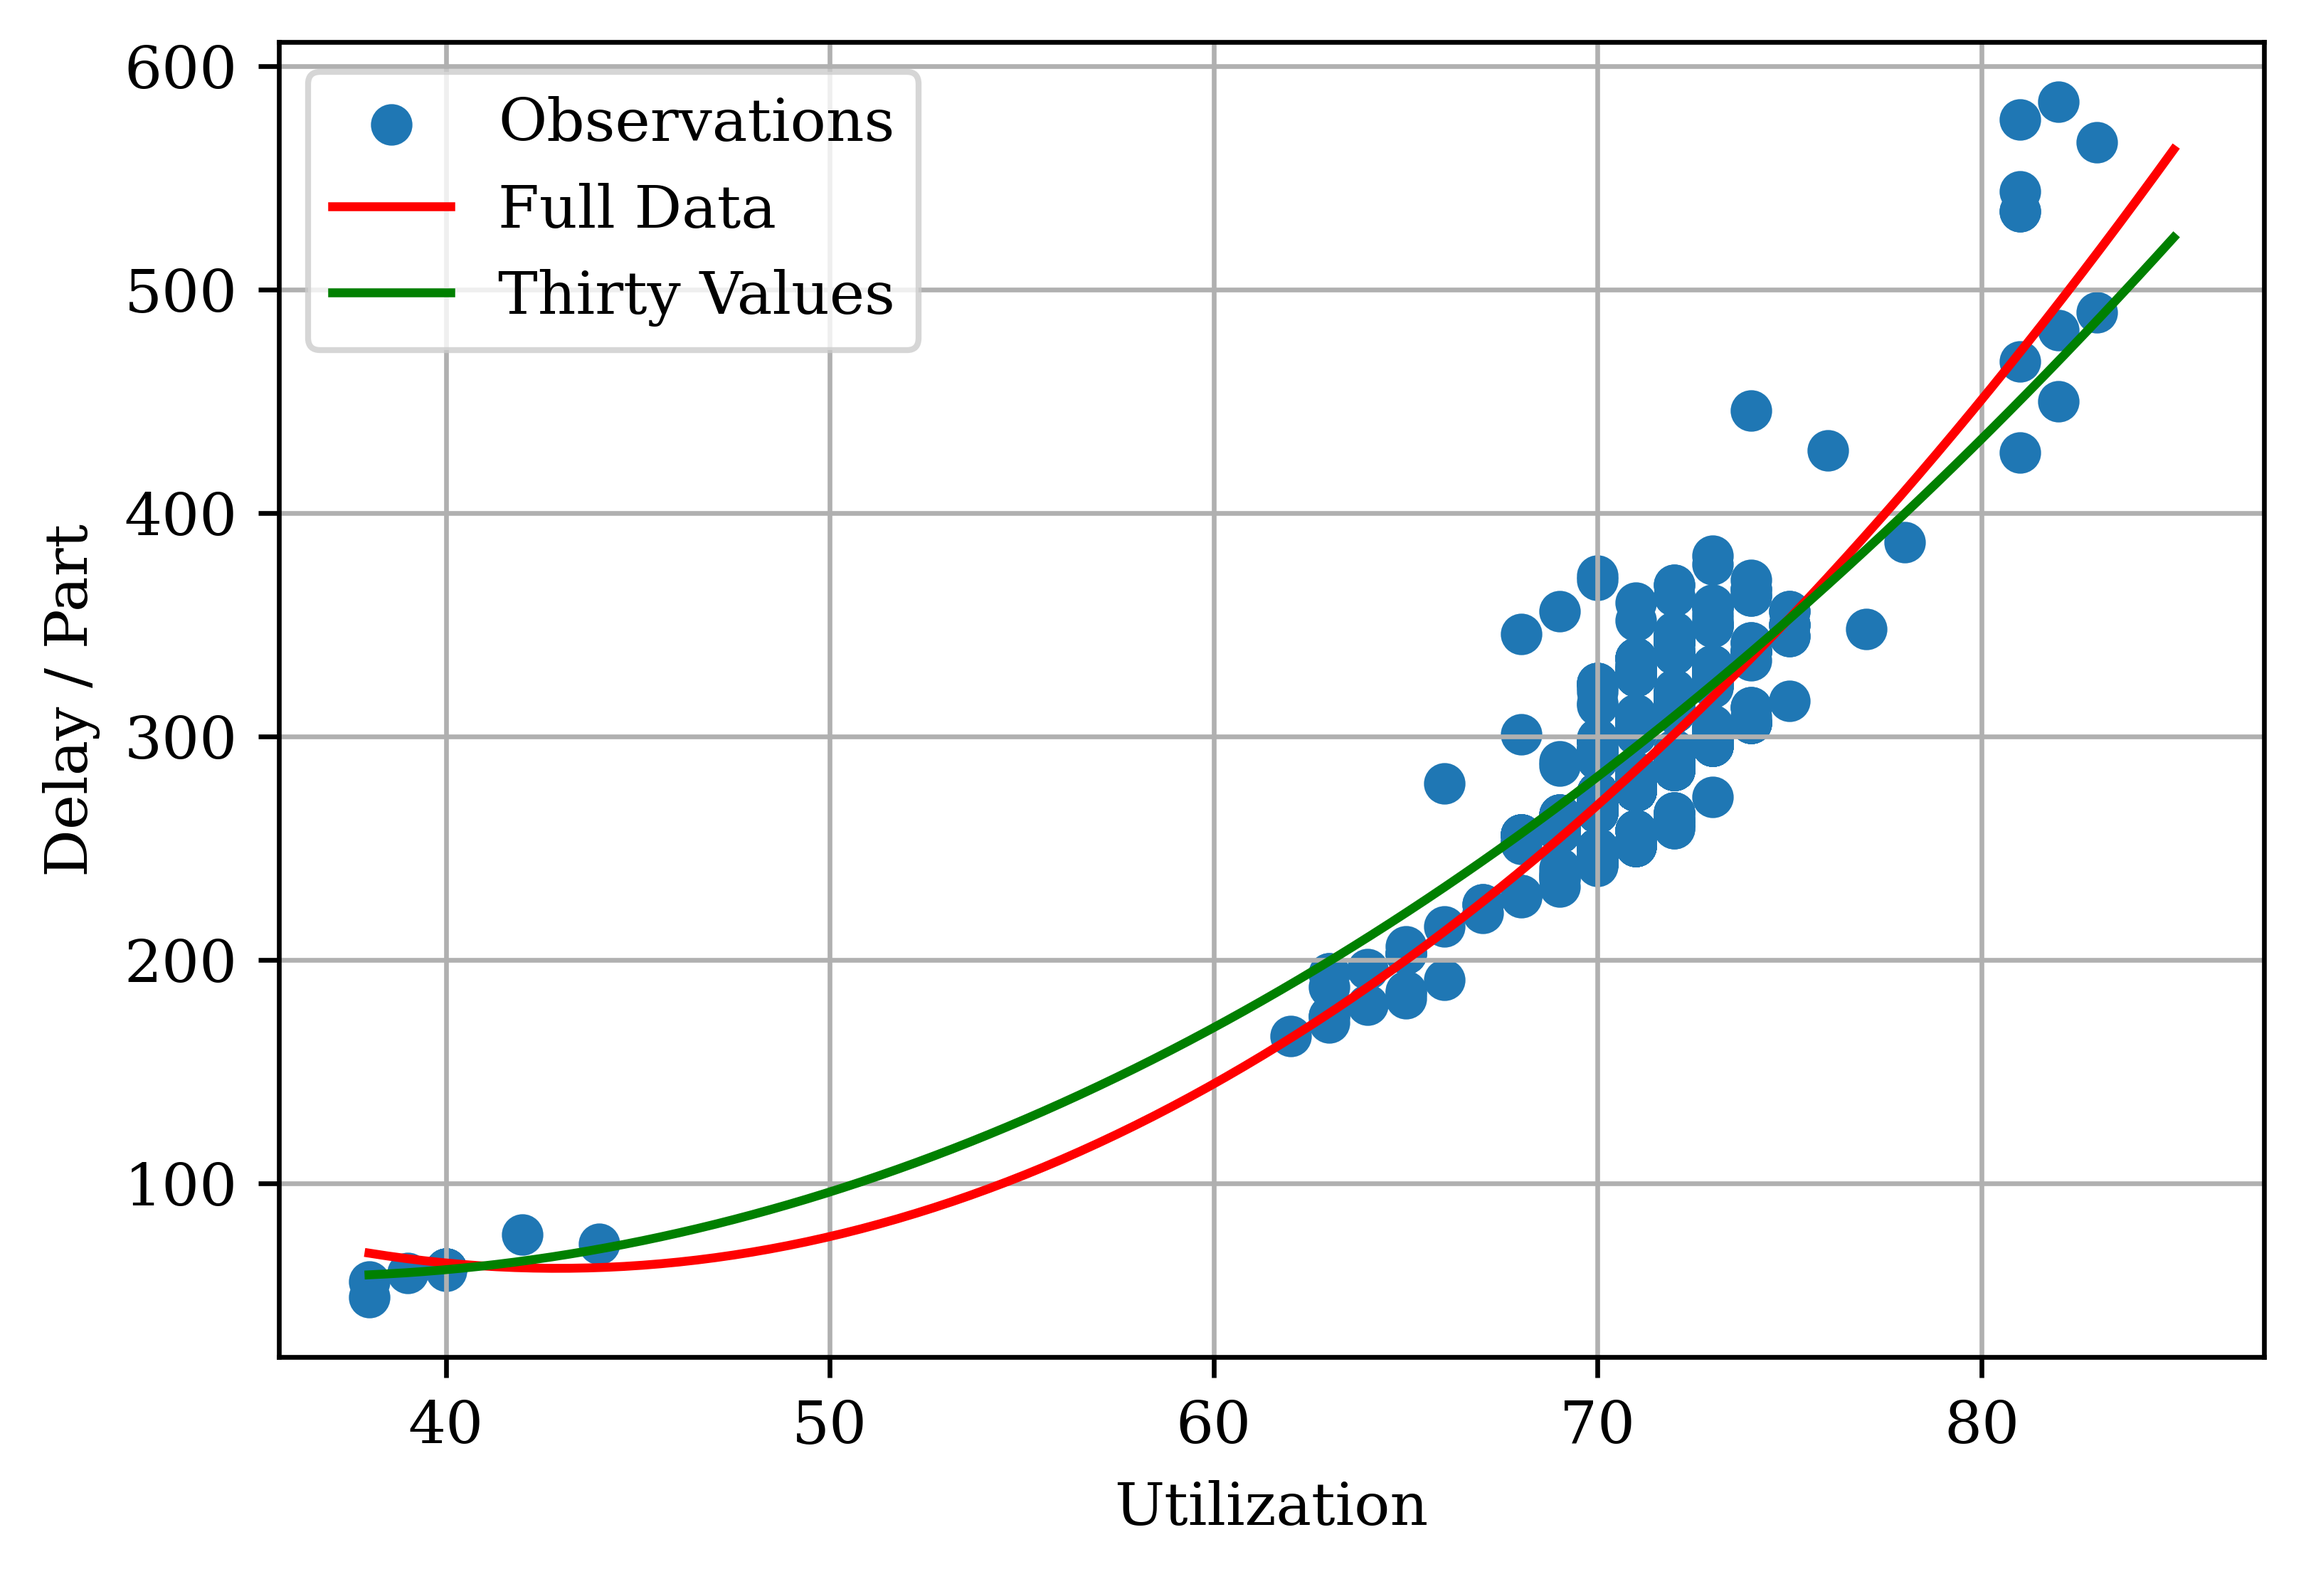
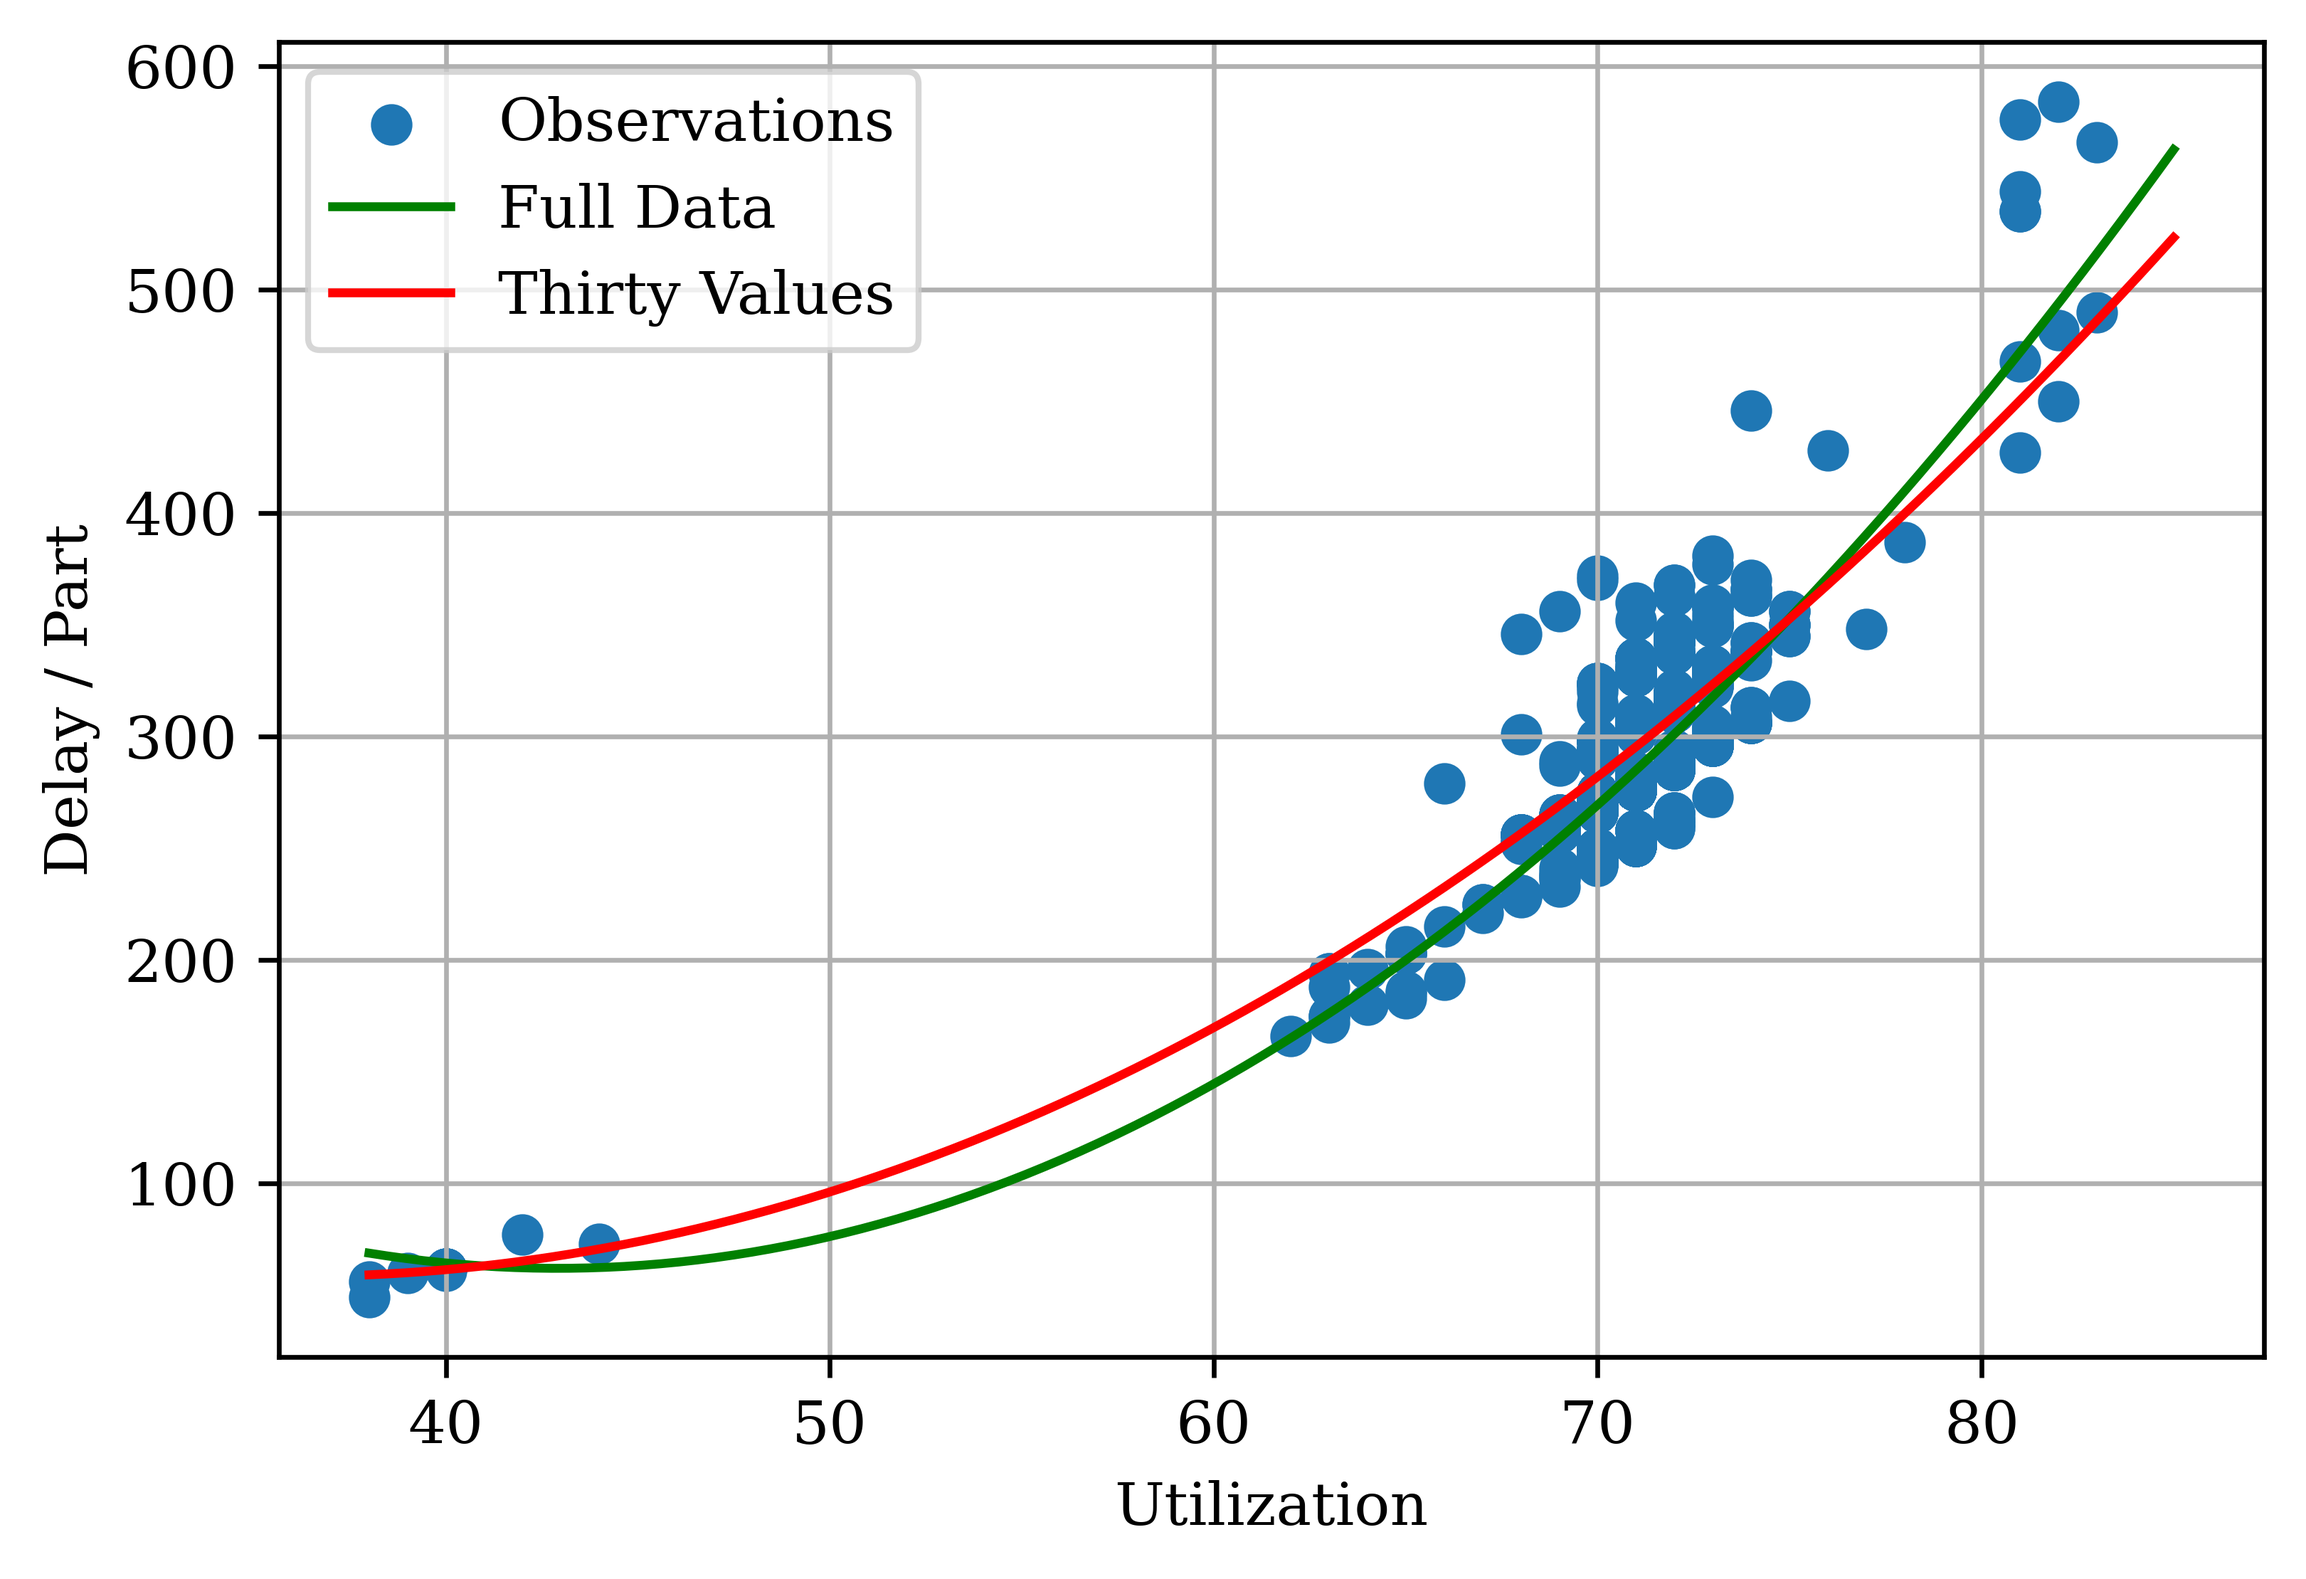
correct axis

diff --git a/DATE/regression_analysis.py b/DATE/regression_analysis.py
@@ -42,8 +42,8 @@ y_pred_part = model_part_training_data.predict(poly_features.fit_transform(x_ran
 
 fig, ax = plt.subplots()
 ax.scatter(x_utilization, y_delay_per_part, label='Observations', marker='o')
-ax.plot(x_range, y_pred_full, label='Full Data', color='red')
-ax.plot(x_range, y_pred_part, label='Thirty Values', color='green')
+ax.plot(x_range, y_pred_full, label='Full Data', color='green')
+ax.plot(x_range, y_pred_part, label='Thirty Values', color='red')
 
 # Add labels and a legend
 ax.set_xlabel('Utilization')
@@ -74,8 +74,8 @@ for i in range(len(x_utilization) - 1):
 
 fig, ax = plt.subplots()
 
-boxplot1 = ax.boxplot(diff_part, positions=[1], labels=['Thirty Values'], patch_artist=True)
-boxplot2 = ax.boxplot(diff_full, positions=[2], labels=['Full Data'], patch_artist=True)
+boxplot1 = ax.boxplot(diff_part, positions=[2], labels=['Thirty Values'], patch_artist=True)
+boxplot2 = ax.boxplot(diff_full, positions=[1], labels=['Full Data'], patch_artist=True)
 
 boxplot1['boxes'][0].set_facecolor('red')
 boxplot2['boxes'][0].set_facecolor('green')
